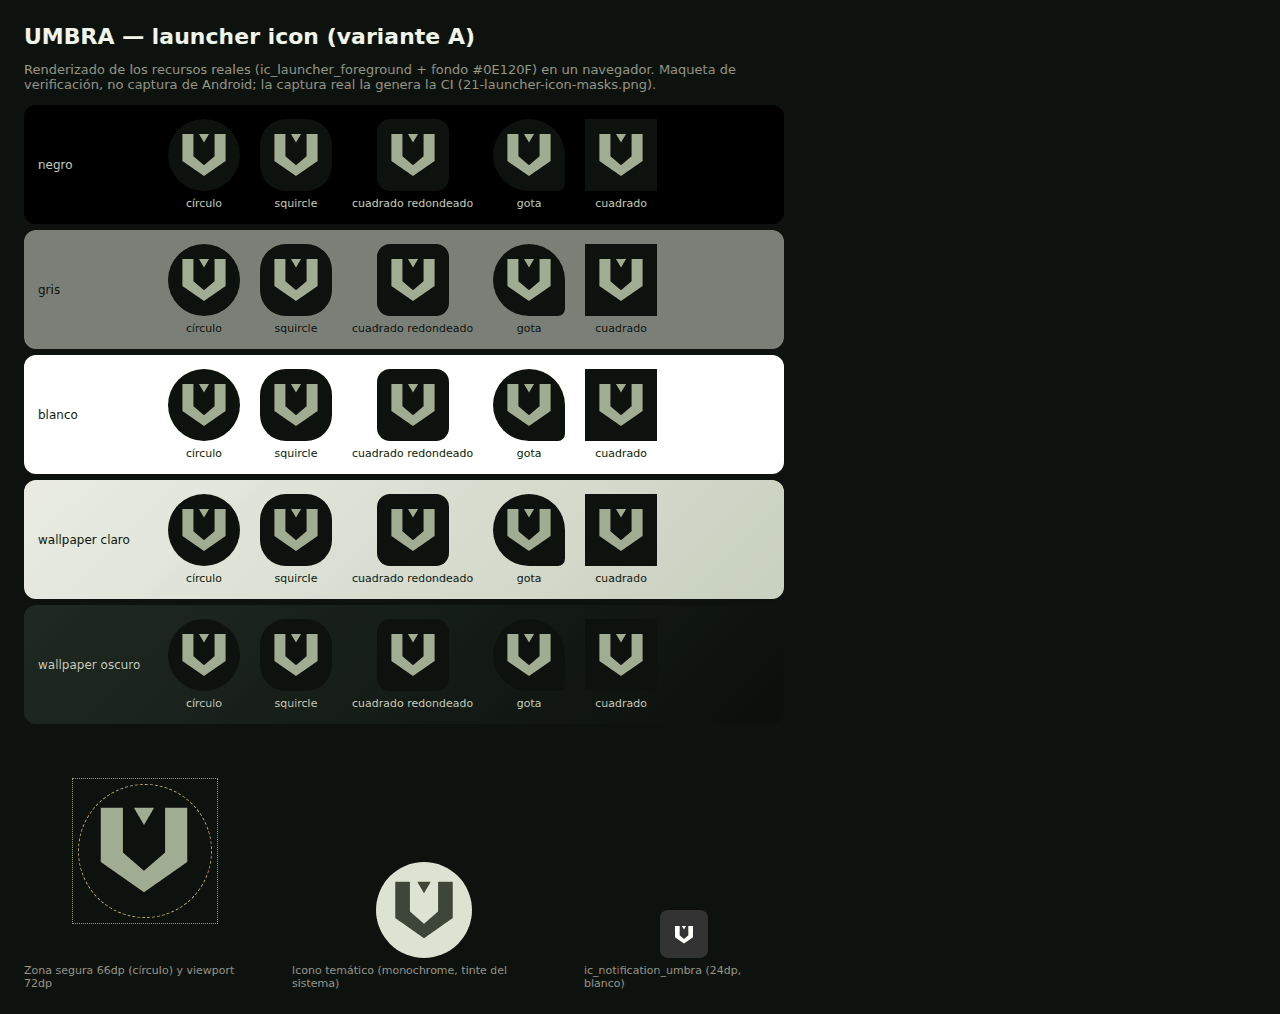
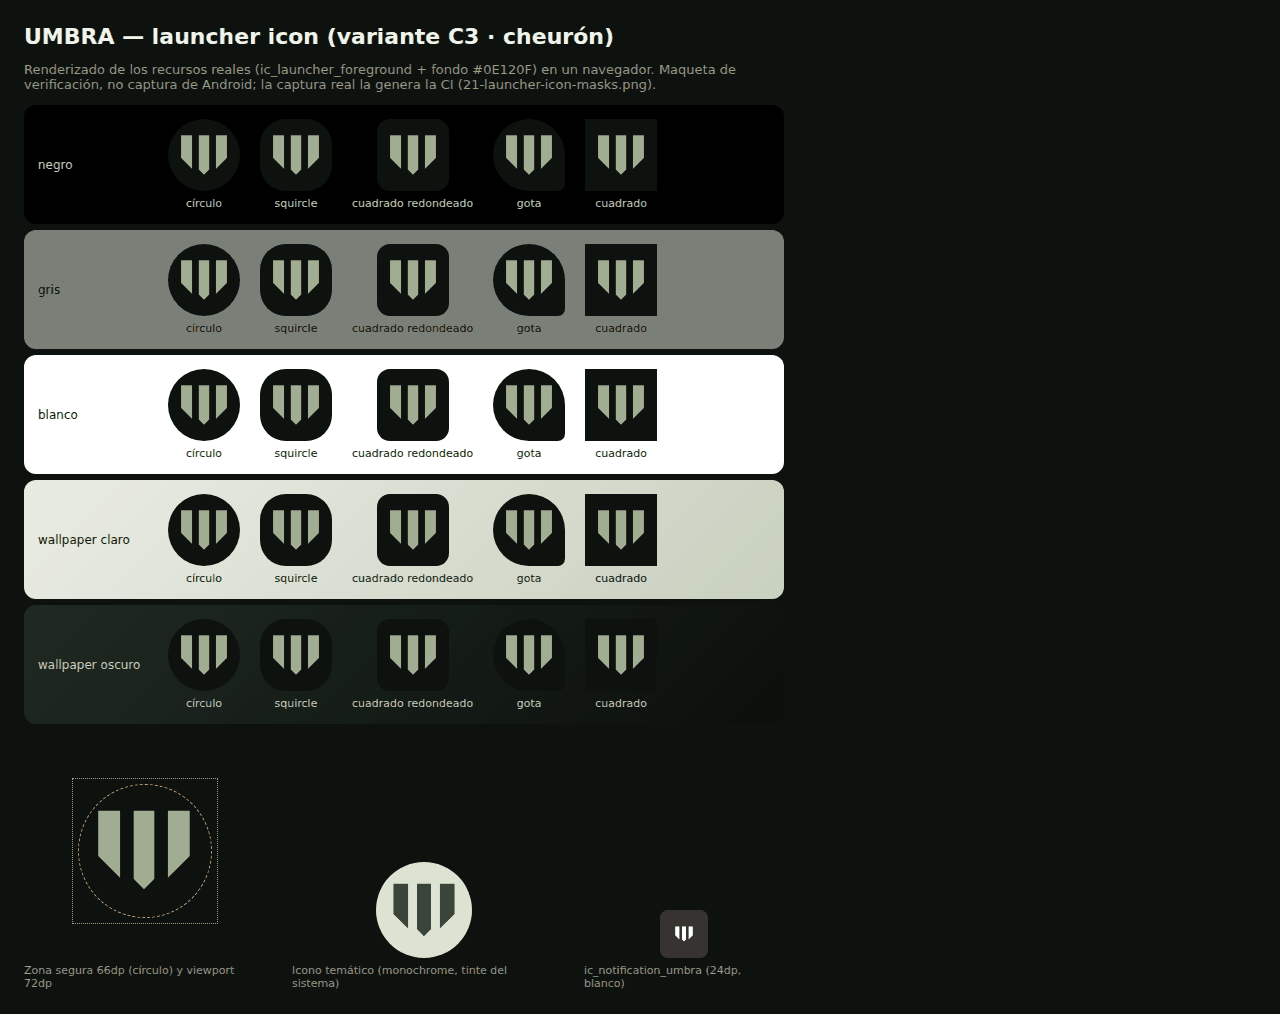
brand: replace symbol A with refined Variant C3 (minimal táctico · cheurón)
Owner decision: Variant C becomes the official UMBRA symbol. Three
geometric refinements of C were compared at 16-72dp, 512px, on black and
light backgrounds and under circle/squircle/rounded masks (C1 suspended
wedge, C2 bevelled tops, C3 chevron). C3 is selected: 2.6-unit gaps and a
4.0-unit central blade stay open in a real 16px render, the three equal-
weight pieces end in a shared chevron so it reads neither as M, II nor H,
and at x2.6 its farthest point is 30.2dp from center (safe zone 33dp).

@string/umbra_symbol_path now holds C3, so the in-app logo, adaptive and
round launcher, monochrome/themed layer, splash and notification icon all
switch together; the launcher foreground transform is re-centered. A, B
and the original C remain only as documented proposals in
docs/design/branding. Tests add three-piece/gap/blade/symmetry/centering
checks and reject any discarded geometry under src/. No navigation,
logic, security, permission or engine change.

Claude-Session: https://claude.ai/code/session_01LXtNpeJ5B5PW3Z515vhVGx

diff --git a/android/app/src/test/java/app/umbra/UiIconResourcesTest.java b/android/app/src/test/java/app/umbra/UiIconResourcesTest.java
@@ -16,6 +16,7 @@ import org.w3c.dom.Element;
 import org.w3c.dom.NodeList;
 import static org.junit.Assert.*;
 
+
 /**
  * Static checks of the branding and icon resources (not a render): launcher/adaptive/monochrome,
  * notification and splash wiring, one source of truth for the symbol, the 24dp icon grid, resolvable
@@ -92,6 +93,26 @@ public class UiIconResourcesTest {
         for (double[] p : PathPoints.of(path)) max = Math.max(max, Math.hypot(tx + s * p[0] - 54, ty + s * p[1] - 54));
         assertTrue("symbol reaches " + max + "dp from center; safe zone radius is 33dp", max <= 33.0);
         assertTrue("symbol too small for recognition", max >= 24.0);
+        // Variant C3 (minimal táctico): exactly three filled pieces, symmetric, centered, with gaps that
+        // stay open at 16dp (>= 2.4 units = 1.6px) and a central blade wide enough to read (>= 3.6 units).
+        List<double[]> boxes = new ArrayList<>();
+        for (String piece : path.split("(?=M)")) {
+            if (piece.isBlank()) continue;
+            double minX = 99, maxX = -99, minY = 99, maxY = -99;
+            for (double[] p : PathPoints.of(piece)) { minX = Math.min(minX, p[0]); maxX = Math.max(maxX, p[0]); minY = Math.min(minY, p[1]); maxY = Math.max(maxY, p[1]); }
+            boxes.add(new double[]{minX, maxX, minY, maxY});
+        }
+        assertEquals("three strokes", 3, boxes.size());
+        boxes.sort(Comparator.comparingDouble(b -> b[0]));
+        for (int i = 1; i < boxes.size(); i++) assertTrue("gap closes at 16dp", boxes.get(i)[0] - boxes.get(i - 1)[1] >= 2.4);
+        assertTrue("central blade too thin", boxes.get(1)[1] - boxes.get(1)[0] >= 3.6);
+        assertClose("horizontal symmetry", 24.0, boxes.get(0)[0] + boxes.get(2)[1], 1e-6);
+        assertClose("columns mirror", boxes.get(0)[1] - boxes.get(0)[0], boxes.get(2)[1] - boxes.get(2)[0], 1e-6);
+        double top = Math.min(boxes.get(0)[2], boxes.get(1)[2]), bottom = Math.max(boxes.get(1)[3], boxes.get(0)[3]);
+        assertClose("vertically centered", 12.0, (top + bottom) / 2, 0.1);
+        // The discarded proposals must not remain in production resources.
+        for (String discarded : new String[]{"L7.6,13.3 L12,17.1", "A9.5,9.5 0 0,0 21.5,10", "M3.5,3.5 L7.6,3.5 L7.6,20.5"})
+            for (Path p : files(SRC, ".xml")) assertFalse(p + " still contains a discarded symbol", Files.readString(p).contains(discarded));
         String styles = Files.readString(RES.resolve("values/styles.xml"));
         assertTrue(styles.contains("windowSplashScreenAnimatedIcon\">@drawable/ic_launcher_foreground"));
         assertTrue(styles.contains("windowSplashScreenBackground\">@color/umbra_launcher_background"));
@@ -192,6 +213,7 @@ public class UiIconResourcesTest {
         }
     }
 
+    private static void assertClose(String m, double e, double a, double d) { assertTrue(m + ": " + e + " vs " + a, Math.abs(e - a) <= d); }
     /** Minimal SVG path walker: endpoints, control points and sampled arcs (absolute coordinates). */
     static final class PathPoints {
         static List<double[]> of(String d) {

diff --git a/docs/design/branding/README.md b/docs/design/branding/README.md
@@ -1,36 +1,51 @@
 # UMBRA — símbolo, app icon e iconografía
 
+Símbolo oficial: **C3 «Cheurón»** (Variante C refinada).
+
 Estado 2026-09-26: recursos implementados y verificados estáticamente; las capturas Android reales
 salen de la CI (`UiScreensRenderTest`, archivos `21-*`, `22-*`, `23-*`). Los PNG de esta carpeta son
 maquetas renderizadas en un navegador desde los mismos XML, **no capturas de Android**.
 
-## Tres propuestas (se conservan para revisión)
+## Decisión vigente (2026-09-26): Variante C refinada → **C3 «Cheurón»**
 
-| Variante | Idea | Archivo |
-|---|---|---|
-| **A — Monograma angular (seleccionada)** | U angular con base en punta y muesca central en V (trazo medio de la M); sugiere U/M/A sin escribir letras | `umbra-symbol-a.svg` |
-| B — Umbra · eclipse | Media corona (cuenco de sombra) que contiene un disco | `umbra-symbol-b.svg` |
-| C — Minimal táctico | Dos columnas y una cuña central, estilo plantilla | `umbra-symbol-c.svg` |
+El propietario eligió la Variante C (minimal táctico) como identidad. Se hicieron tres ajustes
+geométricos del mismo concepto —dos columnas y una cuña central, simétricos— para corregir que
+la C original se fundía a 16 px y se leía como «M» o «II»:
 
-Comparación a 16/20/24/32/48 px, en blanco/negro, oliva y con cinco máscaras: `umbra-symbol-proposals.png`.
+| Refinamiento | Ajuste | Resultado | Archivo |
+|---|---|---|---|
+| C1 — Cuña suspendida | Columnas de 3.5, cuña ancha separada del borde superior, huecos 2.3 | Sin vértice de «M», pero a 16 px la cuña queda en un punto y se lee «H»/«I·I» | `umbra-symbol-c1.svg` |
+| C2 — Techos biselados | Bisel exterior de 45° en las columnas, cuña larga anclada arriba | La silueta sigue siendo una «M» redondeada a 16–24 px | `umbra-symbol-c2.svg` |
+| **C3 — Cheurón (seleccionado)** | Columnas de 4.2 con base biselada a 45° hacia el centro, hoja central de 4.0 con punta a 45°, huecos de 2.6 | La base de las tres piezas forma un cheurón; ni «M» (la cuña no es un vértice corto), ni «II»/«H» (la hoja es tan ancha como las columnas) | `umbra-symbol-c3.svg` |
 
-### Por qué A
+Comparación (16/20/24/32/48/72 px, render real de 16 px ampliado ×6, 512 px, negro, claro,
+#879676, círculo, squircle, cuadrado redondeado): `umbra-symbol-c-refinements.png`.
 
-- **24dp:** es la silueta con más área rellena y la única cuya forma exterior se reconoce a 16px.
-  B pierde el hueco entre disco y corona por debajo de 20px y puede leerse como un ojo o una cara;
-  C se lee como letras («M»/«II») y sus columnas se funden a 16px.
-- **Máscaras:** A queda compacta (su punto más lejano está a ~30dp del centro, dentro del radio de
-  33dp de la zona segura) y no se corta en círculo, squircle, cuadrado redondeado, gota ni cuadrado.
-- **Monocromo:** es una sola forma rellena sin detalles finos, válida para icono temático y notificación.
-- **Riesgo a revisar (decisión humana):** la base en punta puede recordar a un emblema/chevron.
-  No es un escudo cerrado ni usa candados, armas o insignias, pero conviene validarlo con usuarios.
+### Por qué C3
+
+- **16dp:** los dos huecos miden 2.6 unidades (1.7 px a 16 px) y la hoja 4.0 (2.7 px): en el render
+  de 16 px sin suavizado siguen abiertos; en C1 la cuña cae a ~2 px y desaparece, y C2 se funde.
+- **No es una letra:** las tres piezas tienen el mismo peso óptico y terminan en un cheurón común;
+  no hay vértice superior (M), ni barras finas con hueco dominante (II), ni travesaño (H).
+- **Máscaras:** a escala ×2.6 su punto más lejano queda a 30.2dp del centro (zona segura: 33dp);
+  no se corta en círculo, squircle, cuadrado redondeado, gota ni cuadrado.
+- **Monocromo:** tres formas rellenas sin detalles finos; válido para icono temático y notificación.
+- **A revisar por una persona:** el cheurón puede evocar una insignia; no incluye armas, escudo cerrado
+  ni rangos, pero conviene validarlo con usuarios.
+
+### Propuestas anteriores (solo documentación, no activas en recursos)
+
+- A — Monograma angular: `umbra-symbol-a.svg` (descartada; fue la primera implementación).
+- B — Umbra · eclipse: `umbra-symbol-b.svg` (descartada).
+- C — Minimal táctico original: `umbra-symbol-c.svg` (sustituido por C3).
+- Hoja de las tres propuestas iniciales: `umbra-symbol-proposals.png`.
 
 ## Implementación Android (única fuente de verdad)
 
 - Geometría: `res/values/brand.xml` → `@string/umbra_symbol_path` (rejilla 24×24, rellena, sin trazos,
   degradados ni transparencias). Colores `@color/umbra_symbol` (#A0AD93) y `@color/umbra_launcher_background` (#0E120F).
 - `drawable/umbra_symbol.xml`: logo interno (24dp, se tiñe desde el sistema de diseño con `Ui.logo()`).
-- `drawable/ic_launcher_foreground.xml`: capa frontal adaptativa de 108dp (escala ×2.4, centrado).
+- `drawable/ic_launcher_foreground.xml`: capa frontal adaptativa de 108dp (escala ×2.6, centrado).
 - `mipmap-anydpi-v26/ic_launcher.xml` y `ic_launcher_round.xml`: fondo, frente y **monochrome** separados.
 - `drawable/ic_notification_umbra.xml`: silueta blanca 24dp. Preparado: esta versión no publica notificaciones.
 - Splash Android 12+: `windowSplashScreenBackground` #0E120F + `windowSplashScreenAnimatedIcon` = capa frontal.

diff --git a/docs/validation/2026-09-26-android-brand-symbol-c3.md b/docs/validation/2026-09-26-android-brand-symbol-c3.md
@@ -1,0 +1,31 @@
+# Brand symbol replaced by refined Variant C (C3) — 2026-09-26
+
+Status: PARTIAL (static checks here; Android build/lint/instrumentation/screenshots pending CI).
+Previous note (`2026-09-26-android-branding-icons.md`) is kept unchanged as history.
+
+Decision by the owner: Variant C (minimal táctico) replaces Variant A as the official symbol.
+Three refinements of C were produced (C1 suspended wedge, C2 bevelled tops, C3 chevron); C3 was
+selected for 16dp legibility and letter-avoidance (rationale: `docs/design/branding/README.md`).
+
+## Replaced resources
+
+- `res/values/brand.xml` `@string/umbra_symbol_path` → C3 geometry (single source of truth).
+- `res/drawable/ic_launcher_foreground.xml` → transform ×2.6, translate (22.8, 22.67); max radius
+  30.2dp < 33dp safe zone. Used by `mipmap-anydpi-v26/ic_launcher(_round)` foreground and
+  monochrome layers and by the splash theme attribute.
+- `res/drawable/umbra_symbol.xml` (in-app logo) and `res/drawable/ic_notification_umbra.xml`
+  reference the string, so they changed with it; lock, onboarding, About, invitation and QR
+  logos use `Ui.logo()` → same drawable. No internal glyph contained the logo; none changed.
+- Design evidence: `umbra-symbol-c1/c2/c3.svg`, `umbra-symbol-c-refinements.png`,
+  `umbra-launcher-masks-mockup.png`, `umbra-play-store-512.png`, `umbra-launcher-full-bleed.svg`.
+  A, B and the original C remain only as documented proposals.
+
+## Tests
+
+`UiIconResourcesTest.symbolHasOneSourceOfTruthAndFitsTheSafeZone` now also checks: exactly three
+pieces, gaps ≥ 2.4 units (≥ 1.6px at 16dp), central blade ≥ 3.6 units, horizontal symmetry,
+vertical centering, and that no discarded symbol geometry (A, B, original C) remains in `src/**`.
+Existing launcher/adaptive/monochrome/notification/splash/reference tests unchanged and passing.
+Executed here: 56 UI JVM tests (local JUnit shim) pass; type check 0 errors both flavors.
+`UiScreensRenderTest` (safe zone on the real AdaptiveIconDrawable, masks, splash, notification)
+is resource-driven and needs no change; not executed here.
